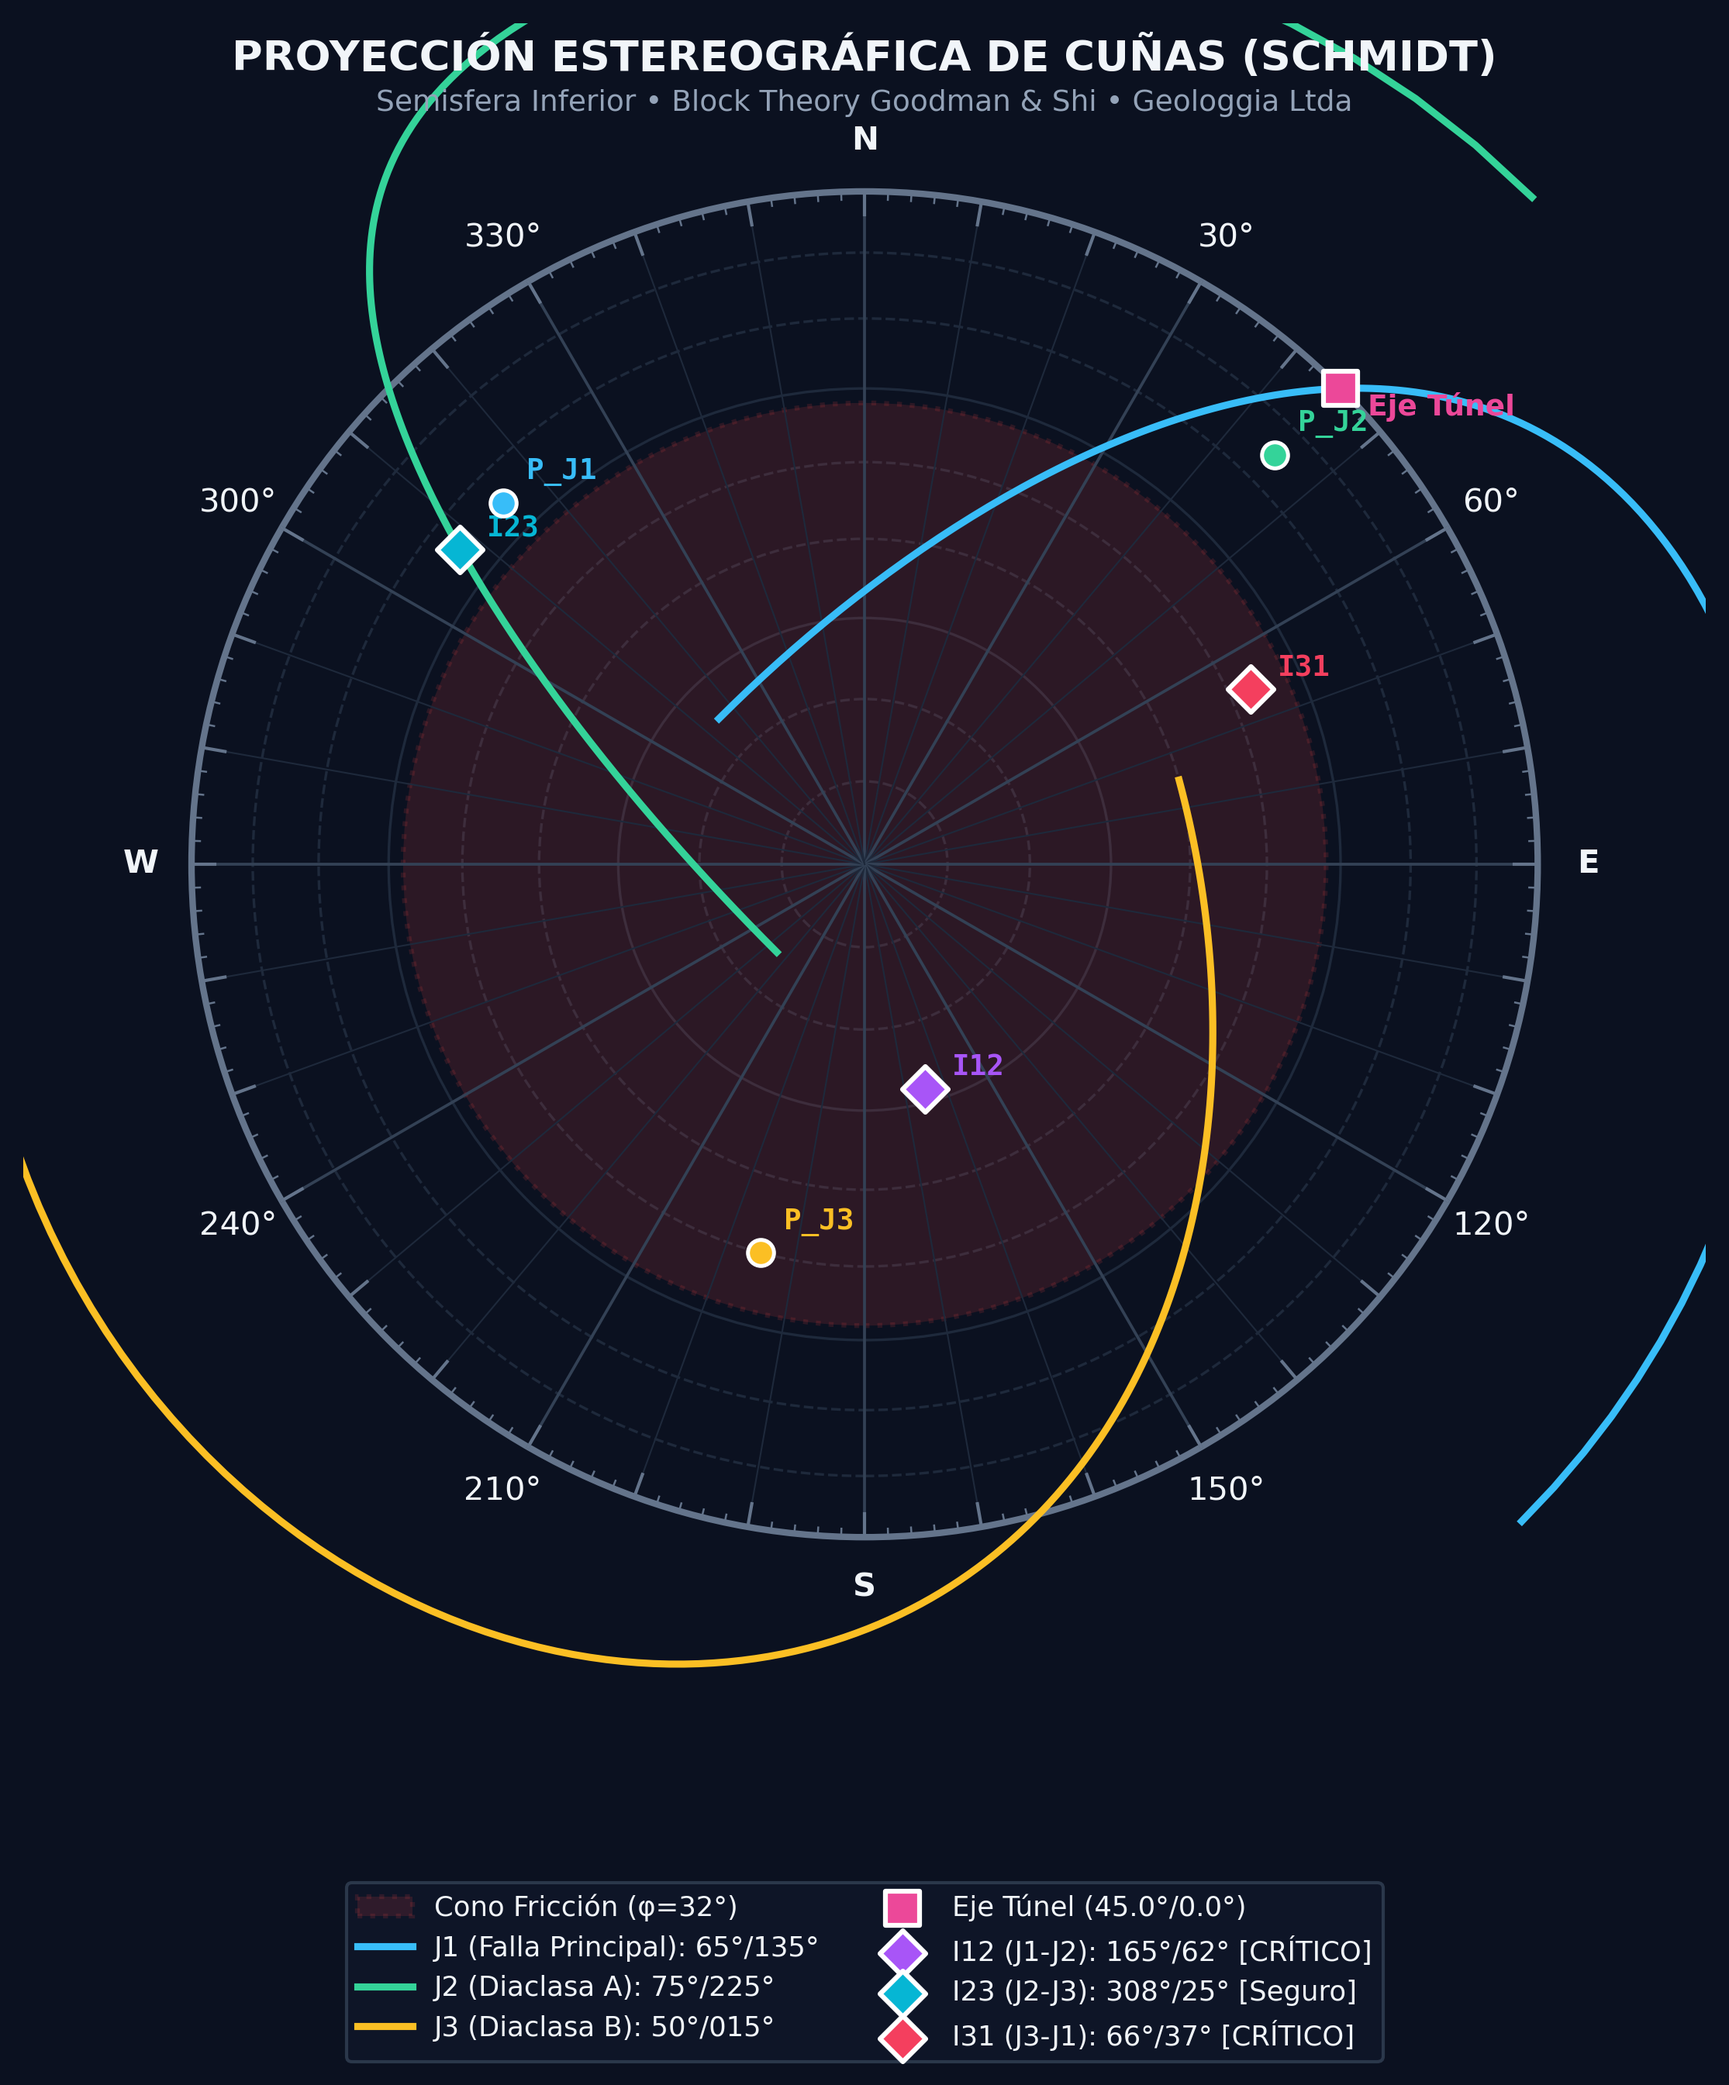
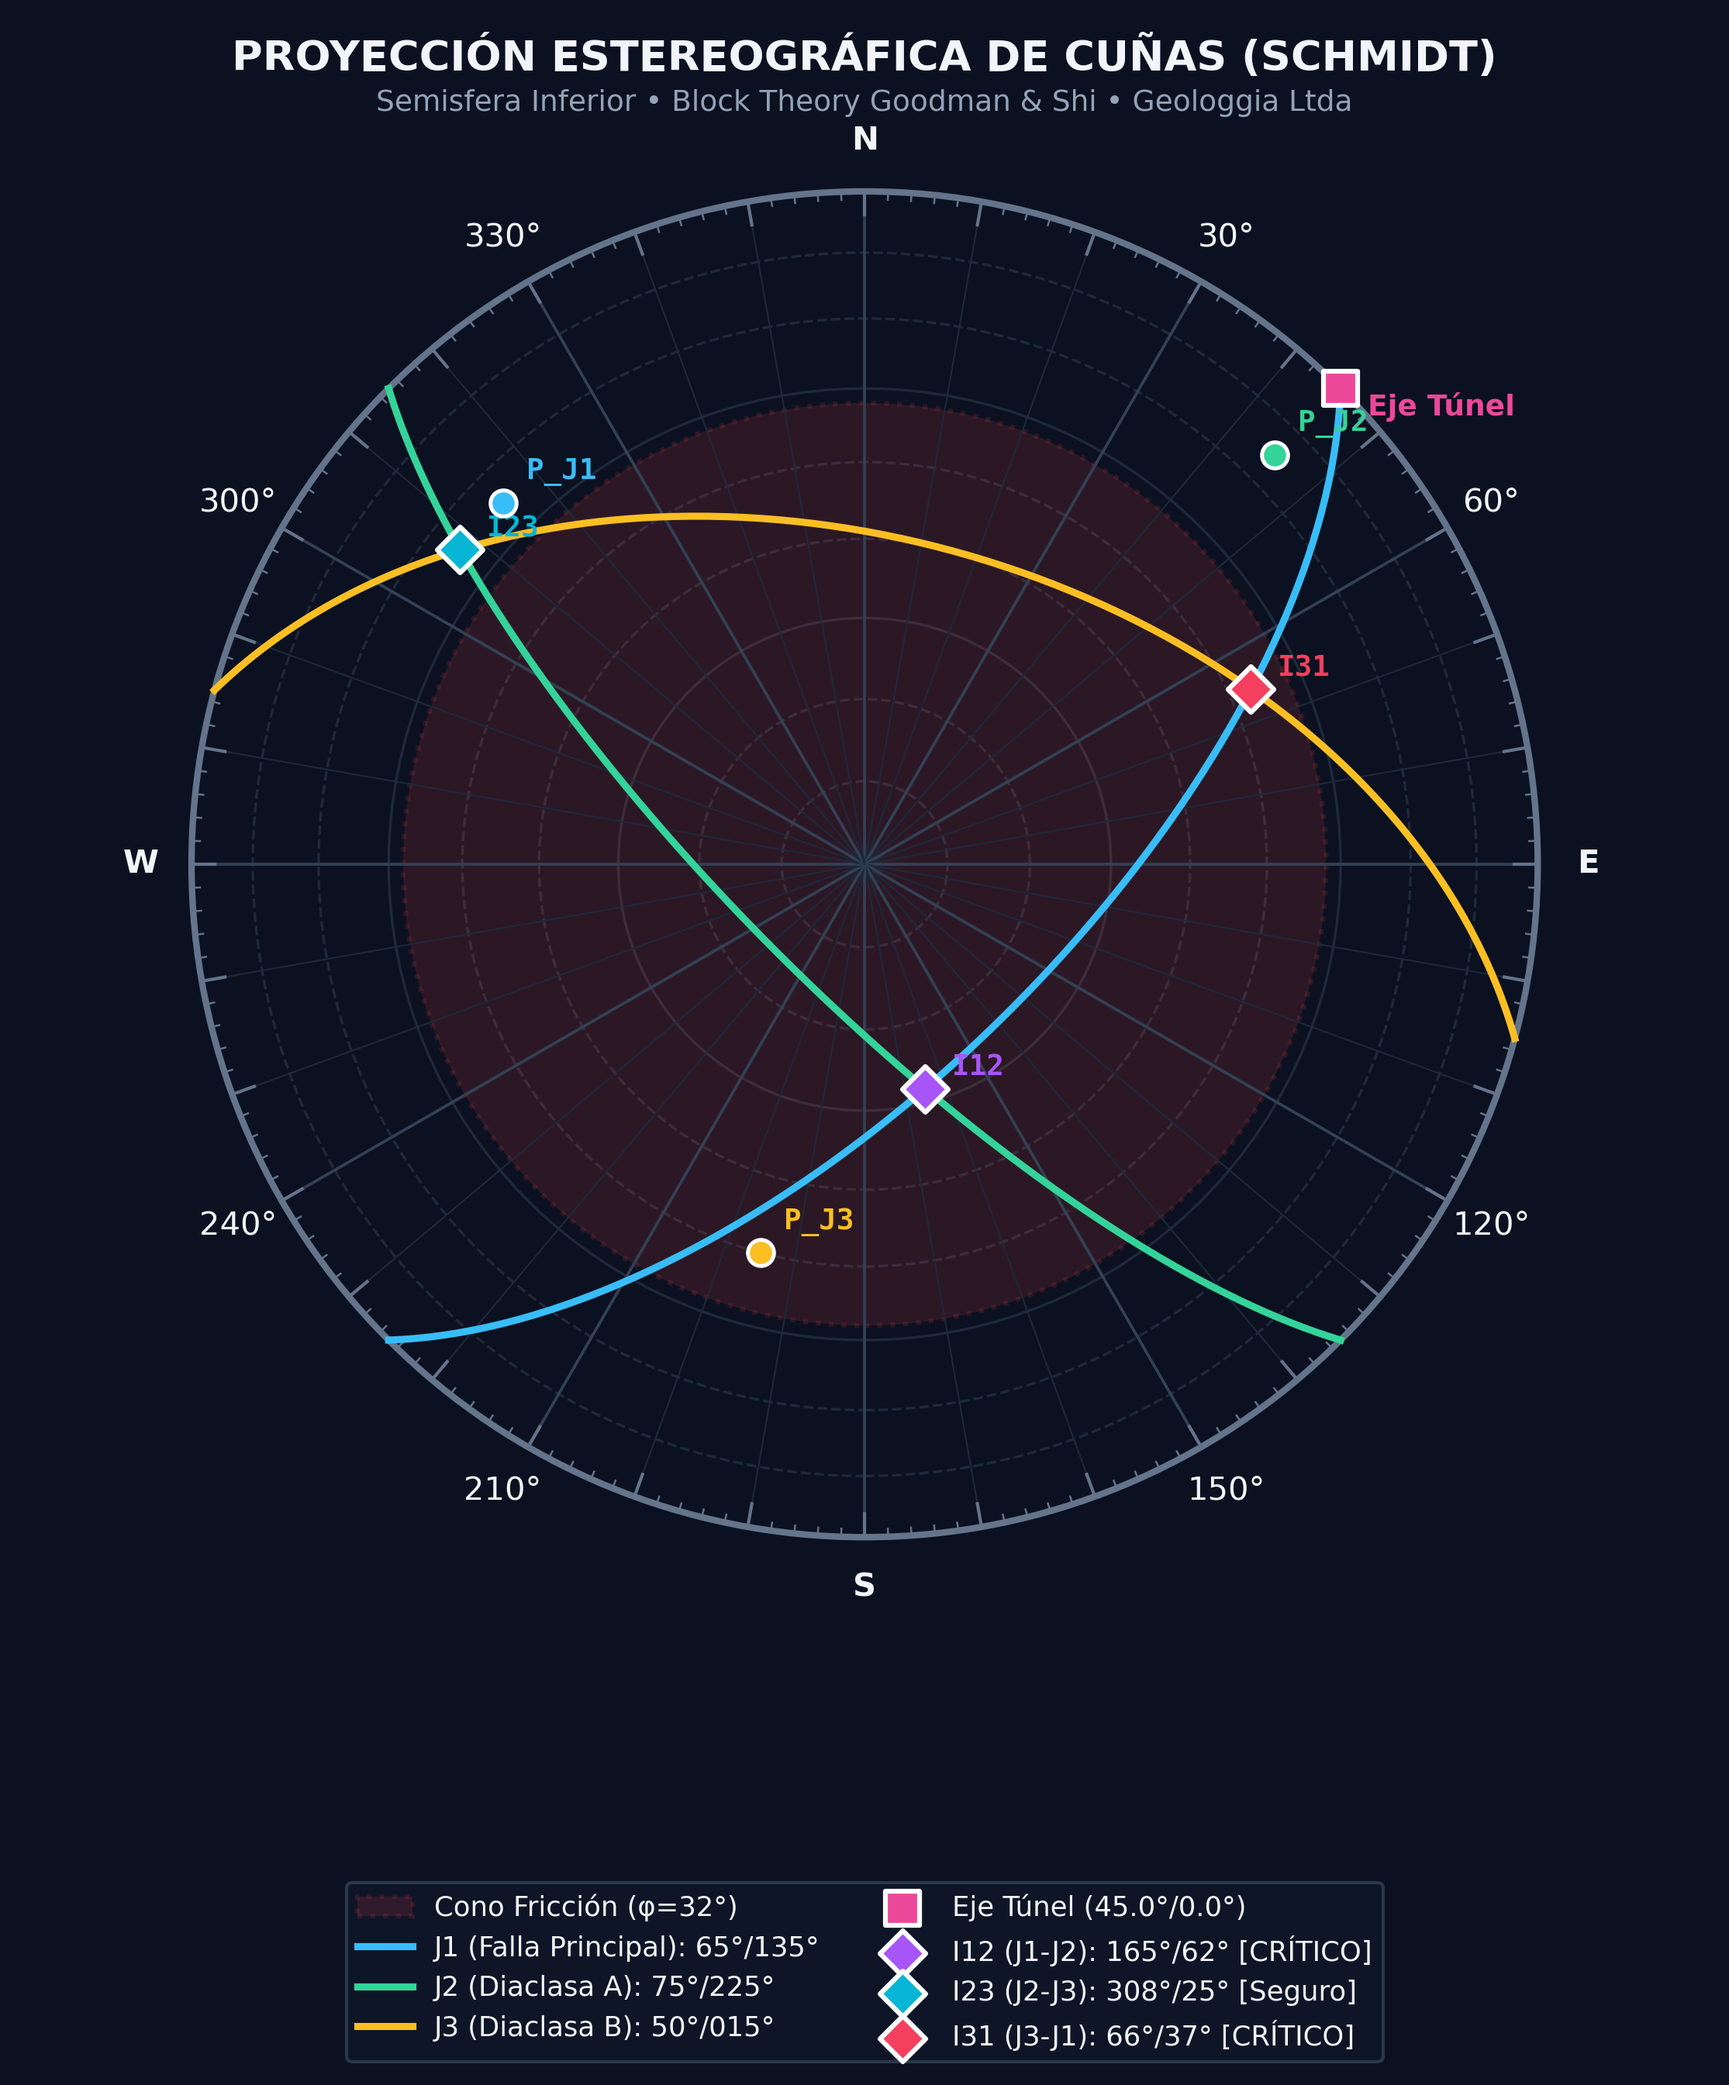
fix(stereonet): fix great circle spherical projection geometry to match Rocscience Dips / Stereonet
- Formulate rigorous orthonormal plane basis (v_strike, v_dip) in lower hemisphere
- Fix great circle strike endpoints and dip direction apex (trend = dipdir, plunge = dip)
- Align great circle crossing points exactly with kinematic intersection diamonds (I12, I23, I31)
- Regenerate 300 DPI publication preview and update python export engine

diff --git a/modules/stereonet.js b/modules/stereonet.js
@@ -146,65 +146,94 @@ window.GeoWedgeStereonet = (function() {
     };
   }
 
-  // Dibuja el Gran Círculo (traza del plano en la semiesfera inferior)
+  // Dibuja el Gran Círculo (traza del plano en la semiesfera inferior estilo Rocscience Dips / Stereonet)
   function drawGreatCircle(dip, dipdir, cx, cy, R, color, label) {
-    if (dip <= 0 || dip >= 90) return;
+    if (dip <= 0) return;
     ctx.strokeStyle = color;
-    ctx.lineWidth = 1.8;
-    ctx.beginPath();
+    ctx.lineWidth = 2.0;
 
     const strike = (dipdir - 90 + 360) % 360;
     const radStrike = toRad(strike);
+
+    if (dip >= 90) {
+      // Plano vertical: línea recta pasando por el centro entre los rumbos
+      const x1 = cx + R * Math.sin(radStrike);
+      const y1 = cy - R * Math.cos(radStrike);
+      const x2 = cx - R * Math.sin(radStrike);
+      const y2 = cy + R * Math.cos(radStrike);
+      ctx.beginPath();
+      ctx.moveTo(x1, y1);
+      ctx.lineTo(x2, y2);
+      ctx.stroke();
+      return;
+    }
+
+    const radS = toRad(strike);
+    const radDir = toRad(dipdir);
     const radDip = toRad(dip);
 
-    const steps = 90;
-    let first = true;
+    // Base ortonormal estricta del plano geológico:
+    // v_strike: vector horizontal a lo largo del rumbo (plunge = 0)
+    // v_dip: vector de máxima pendiente apuntando hacia abajo en la dirección de manteo (plunge = dip)
+    const v_strike = [Math.sin(radS), Math.cos(radS), 0];
+    const v_dip = [Math.sin(radDir) * Math.cos(radDip), Math.cos(radDir) * Math.cos(radDip), -Math.sin(radDip)];
+
+    const steps = 180;
+    ctx.beginPath();
     let midPoint = null;
 
     for (let i = 0; i <= steps; i++) {
-      const alpha = -Math.PI / 2 + (Math.PI * i) / steps;
-      const xl = Math.cos(alpha);
-      const yl = Math.sin(alpha) * Math.cos(radDip);
-      const zl = -Math.sin(alpha) * Math.sin(radDip);
+      const psi = (Math.PI * i) / steps;
+      const vx = Math.cos(psi) * v_strike[0] + Math.sin(psi) * v_dip[0];
+      const vy = Math.cos(psi) * v_strike[1] + Math.sin(psi) * v_dip[1];
+      const vz = Math.cos(psi) * v_strike[2] + Math.sin(psi) * v_dip[2];
 
-      const gx = xl * Math.cos(radStrike) - yl * Math.sin(radStrike);
-      const gy = xl * Math.sin(radStrike) + yl * Math.cos(radStrike);
-
-      const r3d = Math.hypot(gx, gy);
-      const theta = Math.atan2(gx, gy);
-      const plungeAngle = Math.atan2(-zl, r3d);
+      const rHoriz = Math.hypot(vx, vy);
+      const trend = Math.atan2(vx, vy);
+      const plunge = Math.atan2(-vz, rHoriz); // vz es negativo hacia abajo, -vz > 0
 
       let rProj = 0;
       if (config.projection === 'schmidt') {
-        rProj = Math.SQRT2 * R * Math.sin((Math.PI / 2 - plungeAngle) / 2);
+        rProj = Math.SQRT2 * R * Math.sin((Math.PI / 2 - plunge) / 2);
       } else {
-        rProj = R * Math.tan((Math.PI / 2 - plungeAngle) / 2);
+        rProj = R * Math.tan((Math.PI / 2 - plunge) / 2);
       }
 
-      const px = cx + rProj * Math.sin(theta);
-      const py = cy - rProj * Math.cos(theta);
+      const px = cx + rProj * Math.sin(trend);
+      const py = cy - rProj * Math.cos(trend);
 
-      if (first) {
+      if (i === 0) {
         ctx.moveTo(px, py);
-        first = false;
       } else {
         ctx.lineTo(px, py);
       }
 
+      // El punto medio (psi = pi/2) corresponde exactamente a la línea de máxima pendiente (Apex / DipDir)
       if (i === Math.floor(steps / 2)) {
-        midPoint = { px, py, theta };
+        midPoint = { px, py, trend };
       }
     }
     ctx.stroke();
 
-    // Etiqueta a lo largo del arco
+    // Etiqueta legible en el ápex del Gran Círculo
     if (midPoint && label) {
       ctx.save();
+      ctx.font = 'bold 9.5px monospace';
+      const tw = ctx.measureText(label).width;
+      const distOffset = 16;
+      const lx = midPoint.px + distOffset * Math.sin(midPoint.trend);
+      const ly = midPoint.py - distOffset * Math.cos(midPoint.trend);
+
+      ctx.fillStyle = 'rgba(15, 23, 42, 0.9)';
+      ctx.fillRect(lx - tw / 2 - 3, ly - 7, tw + 6, 14);
+      ctx.strokeStyle = color;
+      ctx.lineWidth = 1;
+      ctx.strokeRect(lx - tw / 2 - 3, ly - 7, tw + 6, 14);
+
       ctx.fillStyle = color;
-      ctx.font = 'bold 10px monospace';
       ctx.textAlign = 'center';
       ctx.textBaseline = 'middle';
-      ctx.fillText(label, midPoint.px + 12 * Math.sin(midPoint.theta), midPoint.py - 12 * Math.cos(midPoint.theta));
+      ctx.fillText(label, lx, ly);
       ctx.restore();
     }
   }
@@ -649,18 +678,25 @@ def project_schmidt(trend, plunge, R=1.0):
 def project_pole(dip, dipdir, R=1.0):
     return project_schmidt((dipdir + 180.0) % 360.0, 90.0 - dip, R)
 
-def great_circle(dip, dipdir, R=1.0, pts=150):
+def great_circle(dip, dipdir, R=1.0, pts=180):
+    if dip <= 0: return np.array([]), np.array([])
     strike = (dipdir - 90.0) % 360.0
-    alphas = np.linspace(-np.pi / 2.0, np.pi / 2.0, pts)
+    if dip >= 90:
+        rad1, rad2 = to_rad(strike), to_rad((strike + 180.0) % 360.0)
+        return np.array([R*np.sin(rad1), R*np.sin(rad2)]), np.array([R*np.cos(rad1), R*np.cos(rad2)])
+    rad_s, rad_dir, rad_dip = to_rad(strike), to_rad(dipdir), to_rad(dip)
+    v_strike = np.array([np.sin(rad_s), np.cos(rad_s), 0.0])
+    v_dip = np.array([np.sin(rad_dir)*np.cos(rad_dip), np.cos(rad_dir)*np.cos(rad_dip), -np.sin(rad_dip)])
+    psis = np.linspace(0.0, np.pi, pts)
     xs, ys = [], []
-    for a in alphas:
-        xl, yl, zl = np.cos(a), np.sin(a) * np.cos(to_rad(dip)), -np.sin(a) * np.sin(to_rad(dip))
-        gx = xl * np.cos(to_rad(strike)) - yl * np.sin(to_rad(strike))
-        gy = xl * np.sin(to_rad(strike)) + yl * np.cos(to_rad(strike))
-        plunge = np.arctan2(-zl, np.hypot(gx, gy))
-        r = np.sqrt(2.0) * R * np.sin((np.pi / 2.0 - plunge) / 2.0)
-        xs.append(r * np.sin(np.arctan2(gx, gy)))
-        ys.append(r * np.cos(np.arctan2(gx, gy)))
+    for psi in psis:
+        v = np.cos(psi)*v_strike + np.sin(psi)*v_dip
+        r_h = np.hypot(v[0], v[1])
+        plunge = np.arctan2(-v[2], r_h)
+        theta = np.arctan2(v[0], v[1])
+        r = np.sqrt(2.0) * R * np.sin((np.pi/2.0 - plunge) / 2.0)
+        xs.append(r * np.sin(theta))
+        ys.append(r * np.cos(theta))
     return np.array(xs), np.array(ys)
 
 fig, ax = plt.subplots(figsize=(8, 8), dpi=300)

diff --git a/generate_stereonet.py b/generate_stereonet.py
@@ -47,32 +47,34 @@ def project_pole(dip_deg, dipdir_deg, R=1.0):
     return project_schmidt(pole_trend, pole_plunge, R)
 
 
-def calculate_great_circle(dip_deg, dipdir_deg, R=1.0, num_pts=150):
-    """Calcula los puntos del Gran Círculo (traza del plano en semiesfera inferior)."""
-    if dip_deg <= 0 or dip_deg >= 90:
+def calculate_great_circle(dip_deg, dipdir_deg, R=1.0, num_pts=180):
+    """Calcula los puntos del Gran Círculo (traza del plano en semiesfera inferior estilo Rocscience Dips / Stereonet)."""
+    if dip_deg <= 0:
         return np.array([]), np.array([])
-
     strike = (dipdir_deg - 90.0) % 360.0
-    rad_strike = to_rad(strike)
+    if dip_deg >= 90:
+        rad1 = to_rad(strike)
+        rad2 = to_rad((strike + 180.0) % 360.0)
+        return np.array([R * np.sin(rad1), R * np.sin(rad2)]), np.array([R * np.cos(rad1), R * np.cos(rad2)])
+
+    rad_s = to_rad(strike)
+    rad_dir = to_rad(dipdir_deg)
     rad_dip = to_rad(dip_deg)
 
-    alphas = np.linspace(-np.pi / 2.0, np.pi / 2.0, num_pts)
-    x_pts = []
-    y_pts = []
+    # Base ortonormal estricta del plano geológico:
+    # v_strike: vector horizontal a lo largo del rumbo (plunge = 0)
+    # v_dip: vector de máxima pendiente apuntando hacia abajo en la dirección de manteo (plunge = dip)
+    v_strike = np.array([np.sin(rad_s), np.cos(rad_s), 0.0])
+    v_dip = np.array([np.sin(rad_dir) * np.cos(rad_dip), np.cos(rad_dir) * np.cos(rad_dip), -np.sin(rad_dip)])
 
-    for alpha in alphas:
-        # Coordenadas locales en el plano
-        xl = np.cos(alpha)
-        yl = np.sin(alpha) * np.cos(rad_dip)
-        zl = -np.sin(alpha) * np.sin(rad_dip)  # Hacia abajo
+    psis = np.linspace(0.0, np.pi, num_pts)
+    x_pts, y_pts = [], []
 
-        # Rotar por el rumbo (strike)
-        gx = xl * np.cos(rad_strike) - yl * np.sin(rad_strike)
-        gy = xl * np.sin(rad_strike) + yl * np.cos(rad_strike)
-
-        r3d = np.hypot(gx, gy)
-        theta = np.arctan2(gx, gy)
-        plunge = np.arctan2(-zl, r3d)
+    for psi in psis:
+        v = np.cos(psi) * v_strike + np.sin(psi) * v_dip
+        r_horiz = np.hypot(v[0], v[1])
+        theta = np.arctan2(v[0], v[1])
+        plunge = np.arctan2(-v[2], r_horiz)
 
         r_proj = np.sqrt(2.0) * R * np.sin((np.pi / 2.0 - plunge) / 2.0)
         px = r_proj * np.sin(theta)
